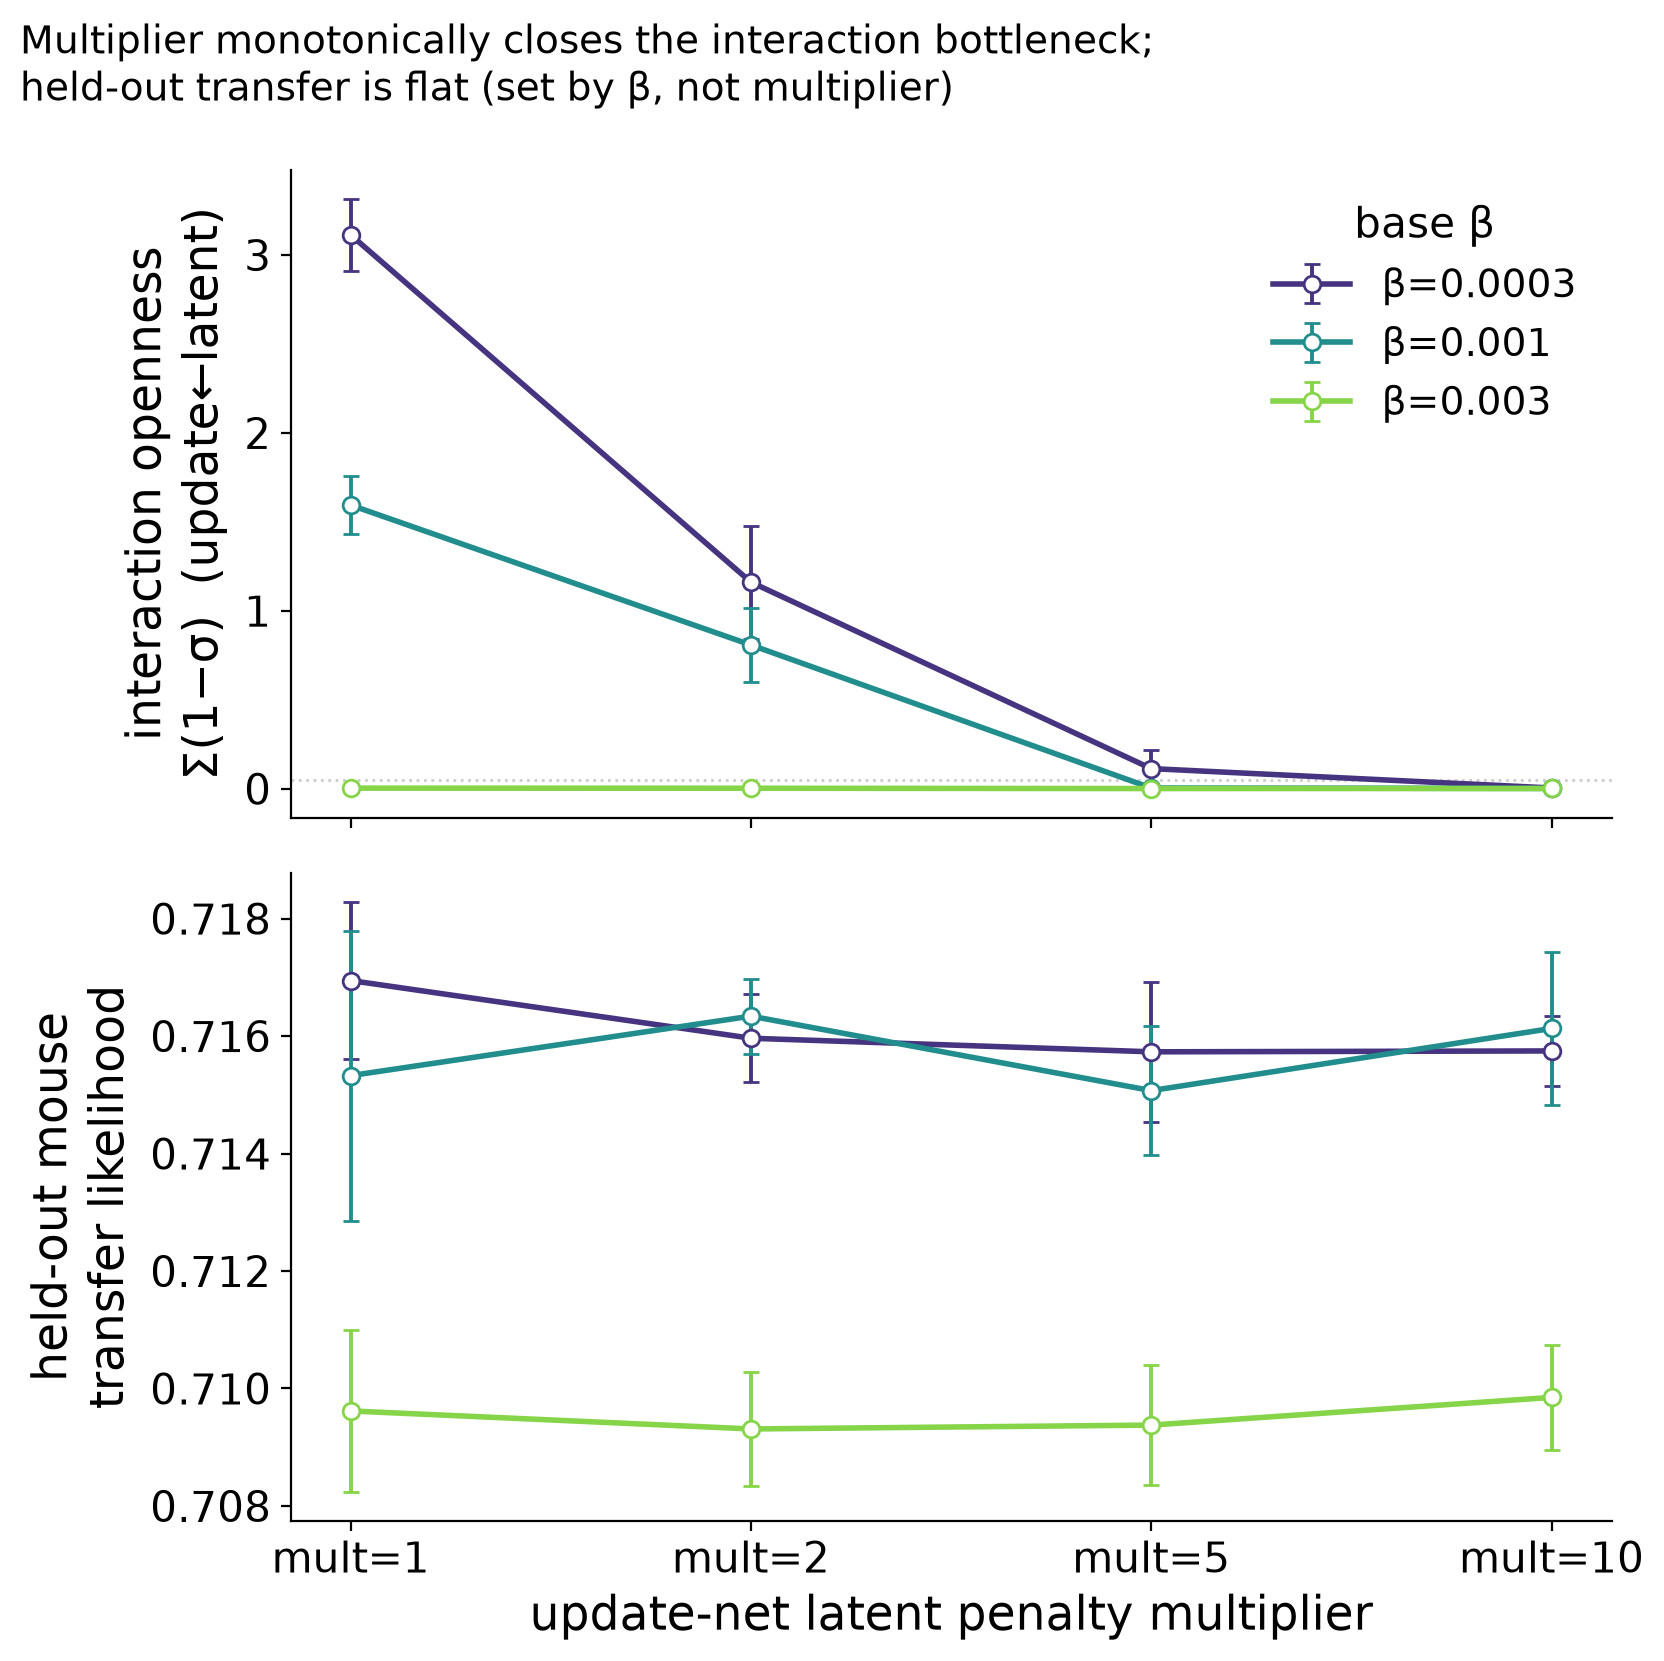
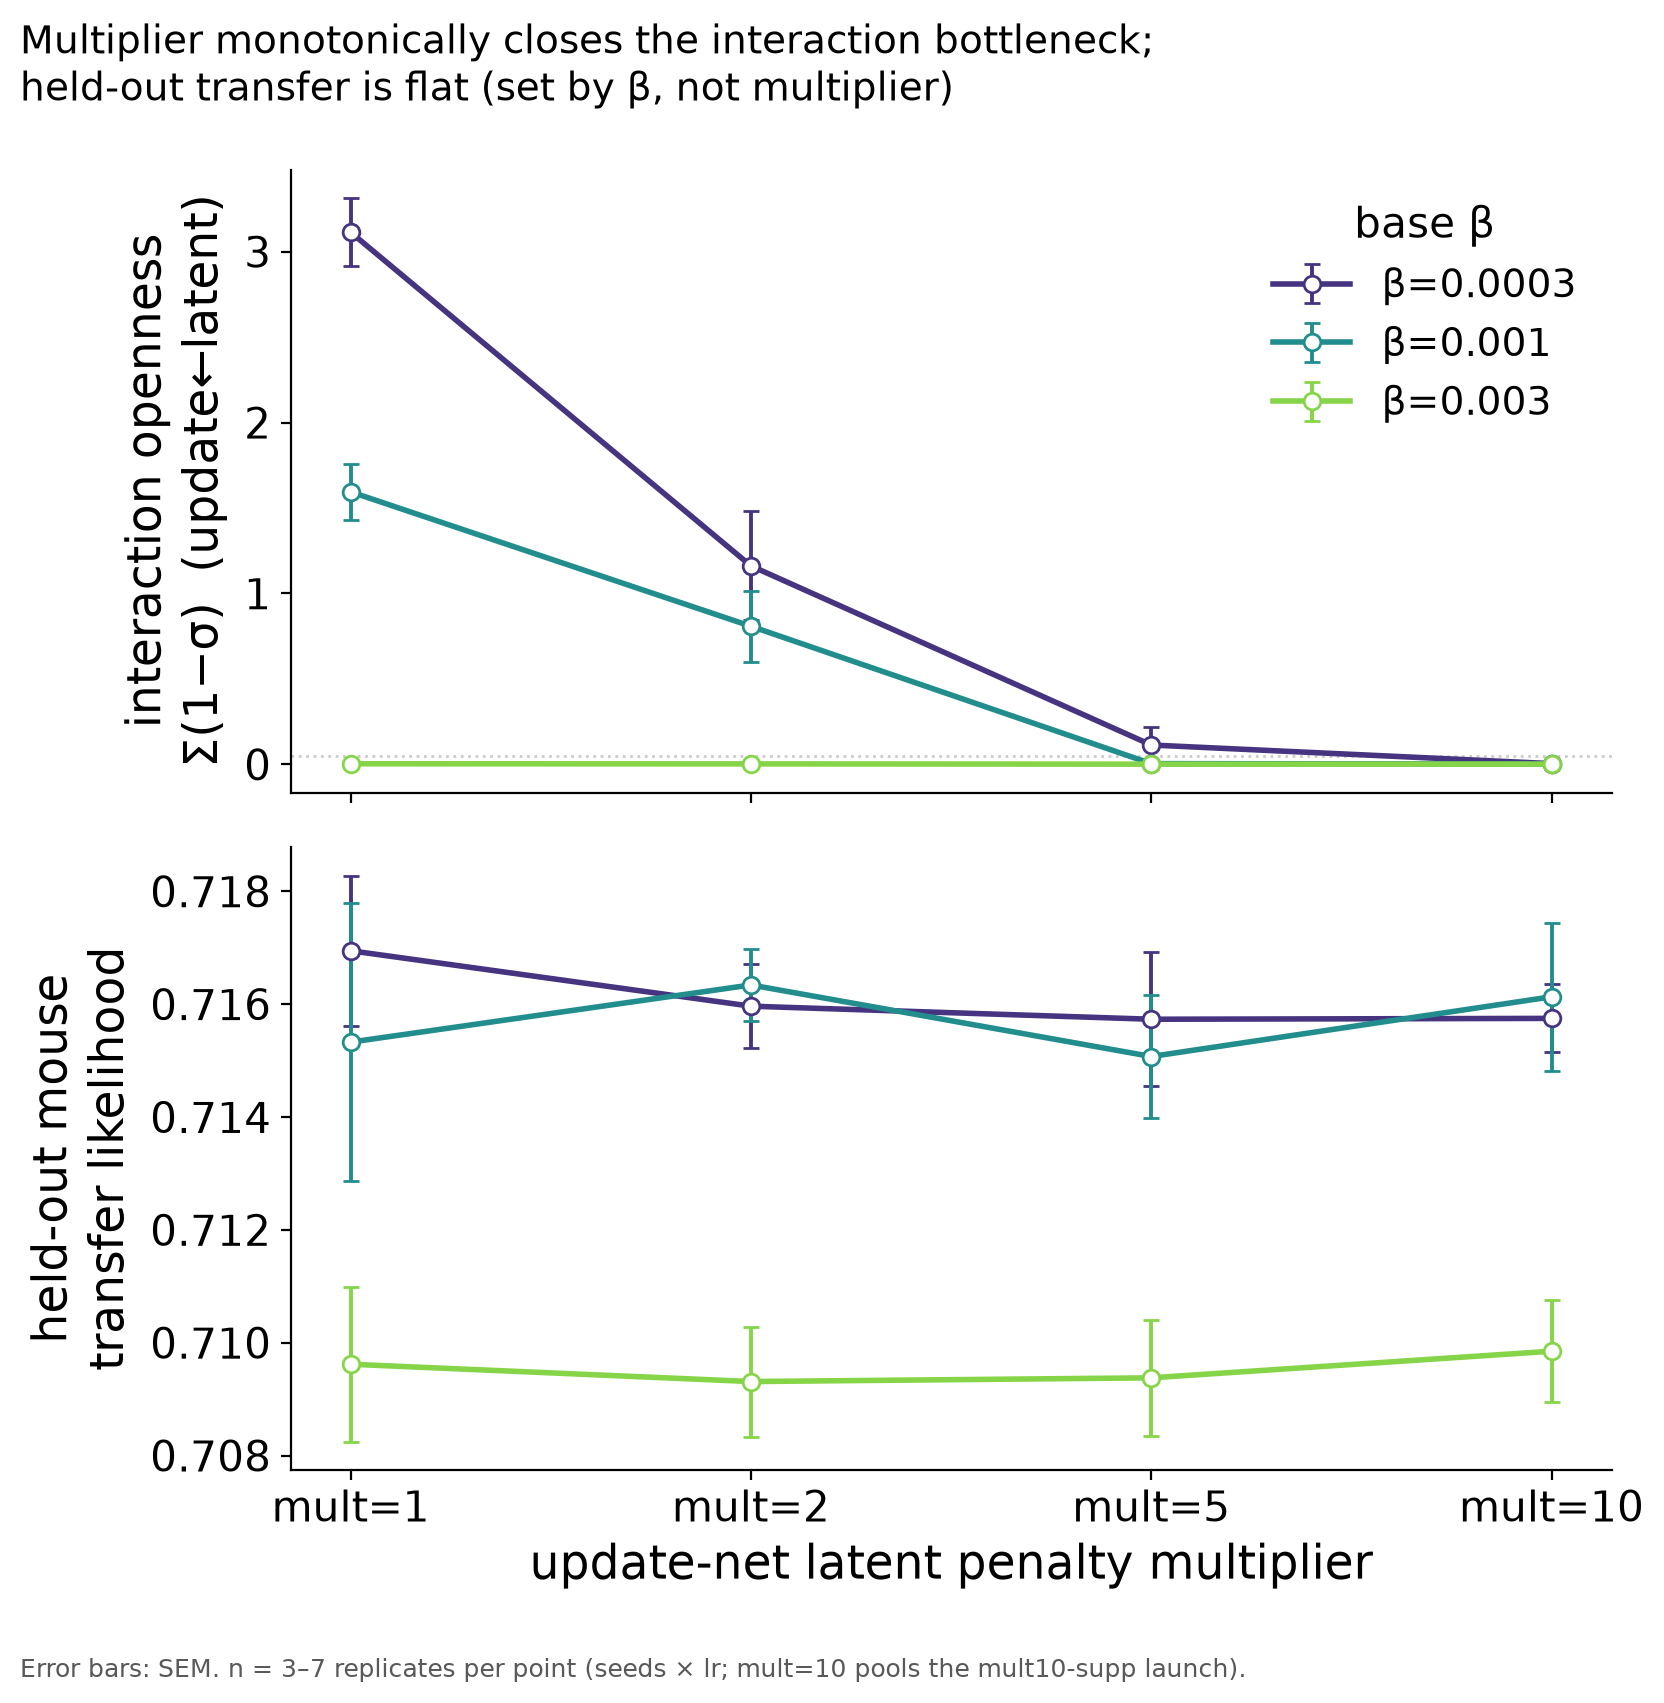
docs(beta-scan): footer both figures with SEM + n=3-7 per point (match ignore-scaling)

diff --git a/studies/beta-scan/analysis/beta_scan_report.py b/studies/beta-scan/analysis/beta_scan_report.py
@@ -186,7 +186,11 @@ def fig_bottlenecks_by_mult(betas, cells):
     axes[0, 2].legend(title="base \u03b2", frameon=False, loc="upper right")
     fig.suptitle("Bottleneck openness vs multiplier, by base \u03b2 (mean\u00b1SEM over seeds/lr)",
                  fontsize=15, x=0.02, ha="left")
-    fig.tight_layout()
+    fig.tight_layout(rect=(0, 0.03, 1, 1))
+    fig.text(0.02, 0.005,
+             "Error bars: SEM. n = 3\u20137 replicates per point (seeds \u00d7 lr; mult=10 pools "
+             "the mult10-supp launch). openness = \u03a3(1\u2212\u03c3); n_eff_open_frac deliberately not used.",
+             fontsize=9, color="0.35", ha="left")
     fig.savefig(HERE / "fig_bottlenecks_by_mult.png", bbox_inches="tight")
     plt.close(fig)
 
@@ -215,7 +219,11 @@ def fig_mult_axis_heldout(betas, cells):
     ax1.legend(title="base \u03b2", frameon=False, loc="upper right")
     fig.suptitle("Multiplier monotonically closes the interaction bottleneck;\nheld-out transfer is flat (set by \u03b2, not multiplier)",
                  fontsize=14, x=0.02, ha="left")
-    fig.tight_layout()
+    fig.tight_layout(rect=(0, 0.03, 1, 1))
+    fig.text(0.02, 0.005,
+             "Error bars: SEM. n = 3\u20137 replicates per point (seeds \u00d7 lr; mult=10 pools "
+             "the mult10-supp launch).",
+             fontsize=9, color="0.35", ha="left")
     fig.savefig(HERE / "fig_mult_axis_heldout.png", bbox_inches="tight")
     plt.close(fig)
 
